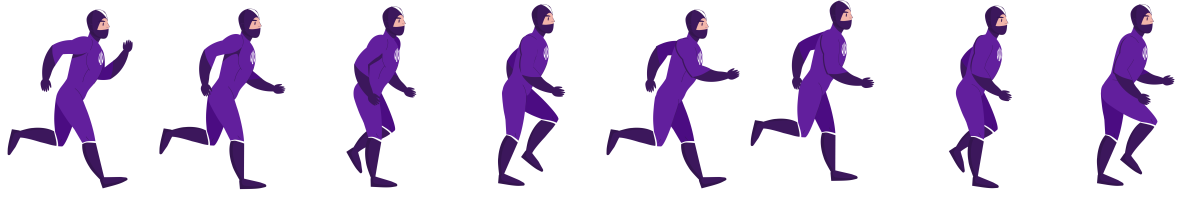
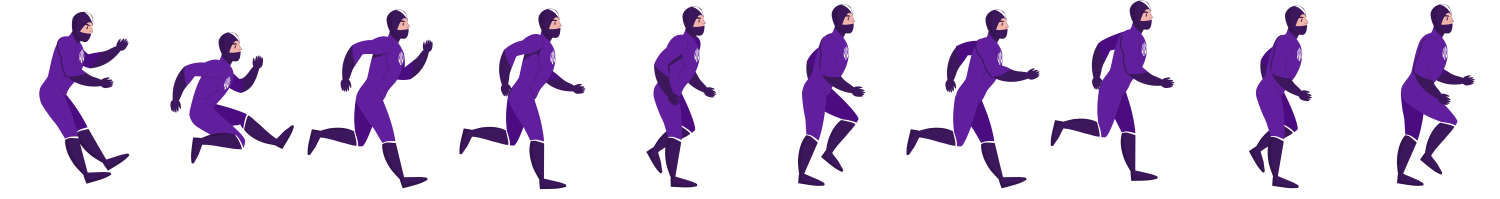
added jump

diff --git a/src/scripts/actions/GameActions.ts b/src/scripts/actions/GameActions.ts
@@ -1,5 +1,6 @@
 import Game from '../scenes/Game';
 import Platform from '../components/Platform';
+import Zone from '../components/Zone';
 
 const bg = require('../../assets/images/bg.jpg');
 const player = require('../../assets/images/player.png');
@@ -7,12 +8,19 @@ const pixel = require('../../assets/images/pixel.png');
 const platform = require('../../assets/images/platform.png');
 const platformTile = require('../../assets/images/platform-tile.png');
 
+const MAX_JUMP = 100; // абстрактное число максимального прыжка
+const MIN_INDENT = 50; // минимально расстояние для следующей платформы
+const TOP_INDENT = 300; // верхняя граница отступа для платформы
+const BOTTOM_INDENT = 100; // нижняя граница отступа для платформы
+const DISTANCE = 400 // расстояние между платформами
+
 class GameActions {
   constructor(scene: Game) {
     this.scene = scene;
   }
 
   private scene: Game;
+  private platforms: Phaser.Time.TimerEvent;
 
   public loadAssets(): void {
     this.scene.load.image('bg', bg);
@@ -23,21 +31,64 @@ class GameActions {
   }
 
   public startPlatforms(): void {
-    const first = new Platform(this.scene, 500, true);
-    this.scene.platforms.add(first);
-    
-    const platform = new Platform(this.scene, 300, true);
-    this.scene.platforms.add(platform);
-    
-    this.scene.time.addEvent({ delay: 500, callback: (): void => {
-      const platform = new Platform(this.scene, 300);
-      this.scene.platforms.add(platform);
-    }, loop: false });
+    this.createPlatform(true);
 
-    this.scene.time.addEvent({ delay: 1500, callback: (): void => {
-      const platform = new Platform(this.scene, 300);
-      this.scene.platforms.add(platform);
+    this.platforms = this.scene.time.addEvent({ delay: 10, callback: (): void => {
+      this.createPlatform();
     }, loop: true });
+  }
+
+  public createClickZone(): void {
+    const camera = this.scene.cameras.main;
+    const zone = new Zone(this.scene, camera.centerX, camera.centerY, camera.width, camera.height);
+    zone.downCallback = (): void => this.scene.player.jump();
+  }
+
+  private createPlatform(first: boolean = false): void {
+    const size = first ? 500 : Phaser.Math.Between(200, 400);
+    const position = this.getPlatformPosition(size, first);
+    
+    if (position === null) return;
+    const platform = new Platform(this.scene, position.x, position.y, size);
+    this.scene.platforms.add(platform);
+  }
+
+  private getPlatformPosition(size: number, start: boolean = false): Iposition {
+    const last: Platform = this.scene.platforms.getChildren()[this.scene.platforms.getLength() - 1] as Platform;
+
+    if (start) {
+      return {
+        x: this.scene.cameras.main.width / 1.5,
+        y: this.scene.player.body.bottom + 70
+      }
+    } else if (last) {
+      if (last.getBounds().right + DISTANCE > this.scene.cameras.main.width) {
+        return null;
+      }
+
+      const up =
+        last.y - TOP_INDENT < TOP_INDENT ? false :
+        last.y + BOTTOM_INDENT > this.scene.cameras.main.height - BOTTOM_INDENT ? true :
+        Boolean(Math.round(Math.random()));
+
+      const min = up ? last.y - MAX_JUMP - MIN_INDENT : last.y + MIN_INDENT;
+      const max = up ? last.y - MIN_INDENT : last.y + MIN_INDENT + MAX_JUMP;
+
+      return {
+        x: this.scene.cameras.main.width + size / 2,
+        y: Phaser.Math.Between(max, min)
+      }
+    }
+    return null;
+  }
+
+  public gameOver(): void {
+    this.platforms.remove();
+    this.scene.platforms.children.iterate((platform: Platform): void => {
+      platform.tween.stop();
+    });
+    this.scene.bg.tween.stop();
+
   }
 }
 

diff --git a/src/scripts/components/Zone.ts b/src/scripts/components/Zone.ts
@@ -1,0 +1,89 @@
+class Zone extends Phaser.GameObjects.Zone {
+  constructor(
+    scene: Phaser.Scene,
+    x: number,
+    y: number,
+    width: number,
+    height: number
+  ) {
+    super(scene, x, y, width, height);
+    this.scene = scene;
+    this.x = x;
+    this.y = y;
+    this.build();
+  }
+
+  public x: number;
+  public y: number;
+  private press: boolean;
+  private xDown: number;
+  private yDown: number;
+  private graphics: Phaser.GameObjects.Graphics;
+  private pointer: Phaser.Input.Pointer = this.scene.input.activePointer;
+  public clickCallback: Function = (): void => {};
+  public downCallback: Function = (): void => {};
+
+  public build(): void {
+    this.scene.add.existing(this);
+    this.setInteractive();
+    this.сlick();
+    // this.setGraphic();
+  }
+
+  private setGraphic(): void {
+    this.graphics = this.scene.add.graphics().setDepth(this.y * 5);
+    this.graphics.lineStyle(2, 0xFFFF00);
+    this.graphics.strokeRect(this.x - this.width / 2, this.y - this.height / 2, this.width, this.height);
+  }
+
+  private сlick(): void {
+    let moveCounter = 0;
+    const maxMoveCounter = 3;
+  
+    this.on('pointerdown', (): void => {
+      this.xDown = this.x;
+      this.yDown = this.y;
+      this.press = true;
+    });
+    this.on('pointermove', (): void => {
+      if (this.press) moveCounter++;
+    });
+    this.on('pointerout', (): void => {
+      if (this.press) {
+        moveCounter = 0;
+        this.press = false;
+      }
+    });
+    this.on('pointerup', (): void => {
+      let x: number;
+      let y: number;
+  
+      if (this.xDown >= this.x) x = this.xDown - this.x;
+      else x = this.x - this.xDown;
+  
+      if (this.yDown >= this.y) y = this.yDown - this.y;
+      else y = this.y - this.yDown;
+      
+      if (this.press && moveCounter < maxMoveCounter && x < 5 && y < 5) {
+        this.press = false;
+        this.clickCallback();
+      } else if (this.press) {
+        this.press = false;
+      }
+      moveCounter = 0;
+    });
+  }
+
+  protected preUpdate(): void {
+    if (this.pointer.isDown) {
+      this.downCallback();
+    }
+  }
+
+  public destroy(): void {
+    this.graphics?.destroy();
+    super.destroy();
+  }
+}
+
+export default Zone;

diff --git a/src/scripts/components/Player.ts b/src/scripts/components/Player.ts
@@ -1,31 +1,68 @@
 import Game from '../scenes/Game';
 
+const MAX_JUMP = 500; // максимальный счетчик нажатия прыжка
+
 class Player extends Phaser.Physics.Arcade.Sprite {
   constructor(scene: Game) {
     super(scene, 150, scene.cameras.main.centerY, 'player');
     this.init();
   }
 
+  public scene: Game;
+  private cursors: Phaser.Types.Input.Keyboard.CursorKeys;
+  private jumpCounter: number;
+
   private init(): void {
+    this.jumpCounter = 0;
+    this.cursors = this.scene.input.keyboard.createCursorKeys();
     this.scene.anims.create({
       key: 'run',
-      frames: this.scene.anims.generateFrameNumbers('player', { start: 0, end: 7 }),
+      frames: this.scene.anims.generateFrameNumbers('player', { start: 2, end: 9 }),
       frameRate: 10,
       repeat: -1
     });
+    this.scene.anims.create({
+      key: 'jump',
+      frames: [ { key: 'player', frame: 1 } ]
+    });
     this.scene.add.existing(this);
     this.scene.physics.add.existing(this);
-    this.setBounce(0.2);
     this.setGravityY(800);
     this.setDepth(3);
     this.body.setSize(80);
   }
 
+  public jump(): void {
+    if (this.body.touching.down && this.jumpCounter === 0) {
+      this.jumpCounter = 1;
+    }
+
+    if (this.body.touching.down || (this.jumpCounter > 0 && this.jumpCounter < MAX_JUMP)) {
+      this.setVelocityY(-300);
+    }
+  }
+
   protected preUpdate(time: number, delta: number): void {
     super.preUpdate(time, delta);
+
+    if (this.jumpCounter > 0) {
+      this.jumpCounter = this.jumpCounter > MAX_JUMP ? 0 : this.jumpCounter += delta;
+      this.jumpCounter = this.jumpCounter > 0 && this.body.touching.down ? 0 : this.jumpCounter;
+    }
+
+    if (this.cursors.space.isDown) {
+      this.jump();
+    }
     
-    // описать нажатия и движение
-    this.anims.play('run', true);
+    if (!this.body.touching.down) {
+      this.anims.play('jump', true);
+    } else {
+      this.anims.play('run', true);
+    }
+
+    if (this.y > this.scene.cameras.main.height + this.height / 2) {
+      this.scene.actions.gameOver();
+    }
   }
 }
 

diff --git a/src/scripts/components/Background.ts b/src/scripts/components/Background.ts
@@ -10,15 +10,20 @@ class Background extends Phaser.GameObjects.TileSprite {
     this.init();
   }
 
+  public scene: Game;
   public tween: Phaser.Tweens.Tween;
+  private indent: number;
+  private indentPercent: number;
+  private half: number;
+  private halfPercent: number;
   
   private init(): void {
     this.scene.add.existing(this);
     this.setOrigin(0, 0.5);
     this.setDepth(-2);
 
-    const co = this.scene.cameras.main.height / this.height;
-    this.setScale(co, co);
+    // const co = this.scene.cameras.main.height / this.height;
+    // this.setScale(co, co);
 
     this.tween = this.scene.tweens.add({
       targets: this,
@@ -26,6 +31,35 @@ class Background extends Phaser.GameObjects.TileSprite {
       duration: SPEED,
       repeat: -1
     });
+    this.indent = (HEIGHT - this.scene.cameras.main.height) / 2;
+    this.indentPercent = this.indent / 100;
+    this.half = this.scene.cameras.main.height / 2;
+    this.halfPercent = this.half / 100;
+  }
+
+  protected preUpdate(): void {
+    let y = this.y;
+    const up = this.scene.cameras.main.centerY > this.scene.player.y;
+
+    if (up) {
+      if (this.scene.player.y > 0 && this.scene.player.y < this.scene.cameras.main.centerY) {
+        const position = this.scene.player.y;
+        const percent = 100 - position / this.halfPercent;
+        y = this.scene.cameras.main.centerY + percent * this.indentPercent;
+      }
+    } else {
+      if (this.half > this.scene.player.y - this.half) {
+        const position = this.scene.player.y - this.half;
+        const percent = position / this.halfPercent;
+        y = this.scene.cameras.main.centerY - percent * this.indentPercent;
+      }
+    }
+    
+    if (this.scene.player.y < this.scene.cameras.main.height &&
+      this.scene.player.y > 0 &&
+      this.y !== y) {
+      this.setY(y);
+    }
   }
 }
 

diff --git a/src/scripts/components/Platform.ts b/src/scripts/components/Platform.ts
@@ -4,20 +4,9 @@ import Player from './Player';
 const SPEED = 3000; // скорость движения платформы
 const SIDE = 38; // ширина края платформа
 const HEIGHT = 78; // высота спрайта платформы
-const MAX_JUMP = 150; // абстрактное число максимального прыжка
-const INDENT = 300; // границы отступа для платформ снизу и сверху
 
 class Platform extends Phaser.Physics.Arcade.Sprite {
-  constructor(scene: Game, size: number, start: boolean = false) {
-    const x = start ? scene.cameras.main.width / 1.5 : scene.cameras.main.width + size / 2;
-    const last: Platform = scene.platforms.getChildren()[scene.platforms.getLength() - 1] as Platform;
-    let y = scene.player.body.bottom + 70;
-    
-    if (!start) {
-      const max = last.y - MAX_JUMP < INDENT ? last.y - MAX_JUMP : INDENT;
-      const min = last.y + MAX_JUMP > scene.cameras.main.height - INDENT ? last.y + MAX_JUMP : scene.cameras.main.height - INDENT;
-      y = Phaser.Math.Between(max, min);
-    }
+  constructor(scene: Game, x: number, y: number, size: number) {
     super(scene, x, y, 'pixel');
     this.size = size;
     this.init();

diff --git a/src/scripts/scenes/Game.ts b/src/scripts/scenes/Game.ts
@@ -26,6 +26,7 @@ class Game extends Phaser.Scene {
     this.platforms = this.physics.add.group();
     this.physics.add.collider(this.player, this.platforms);
     this.actions.startPlatforms();
+    this.actions.createClickZone();
   }
 
   public update(): void {
